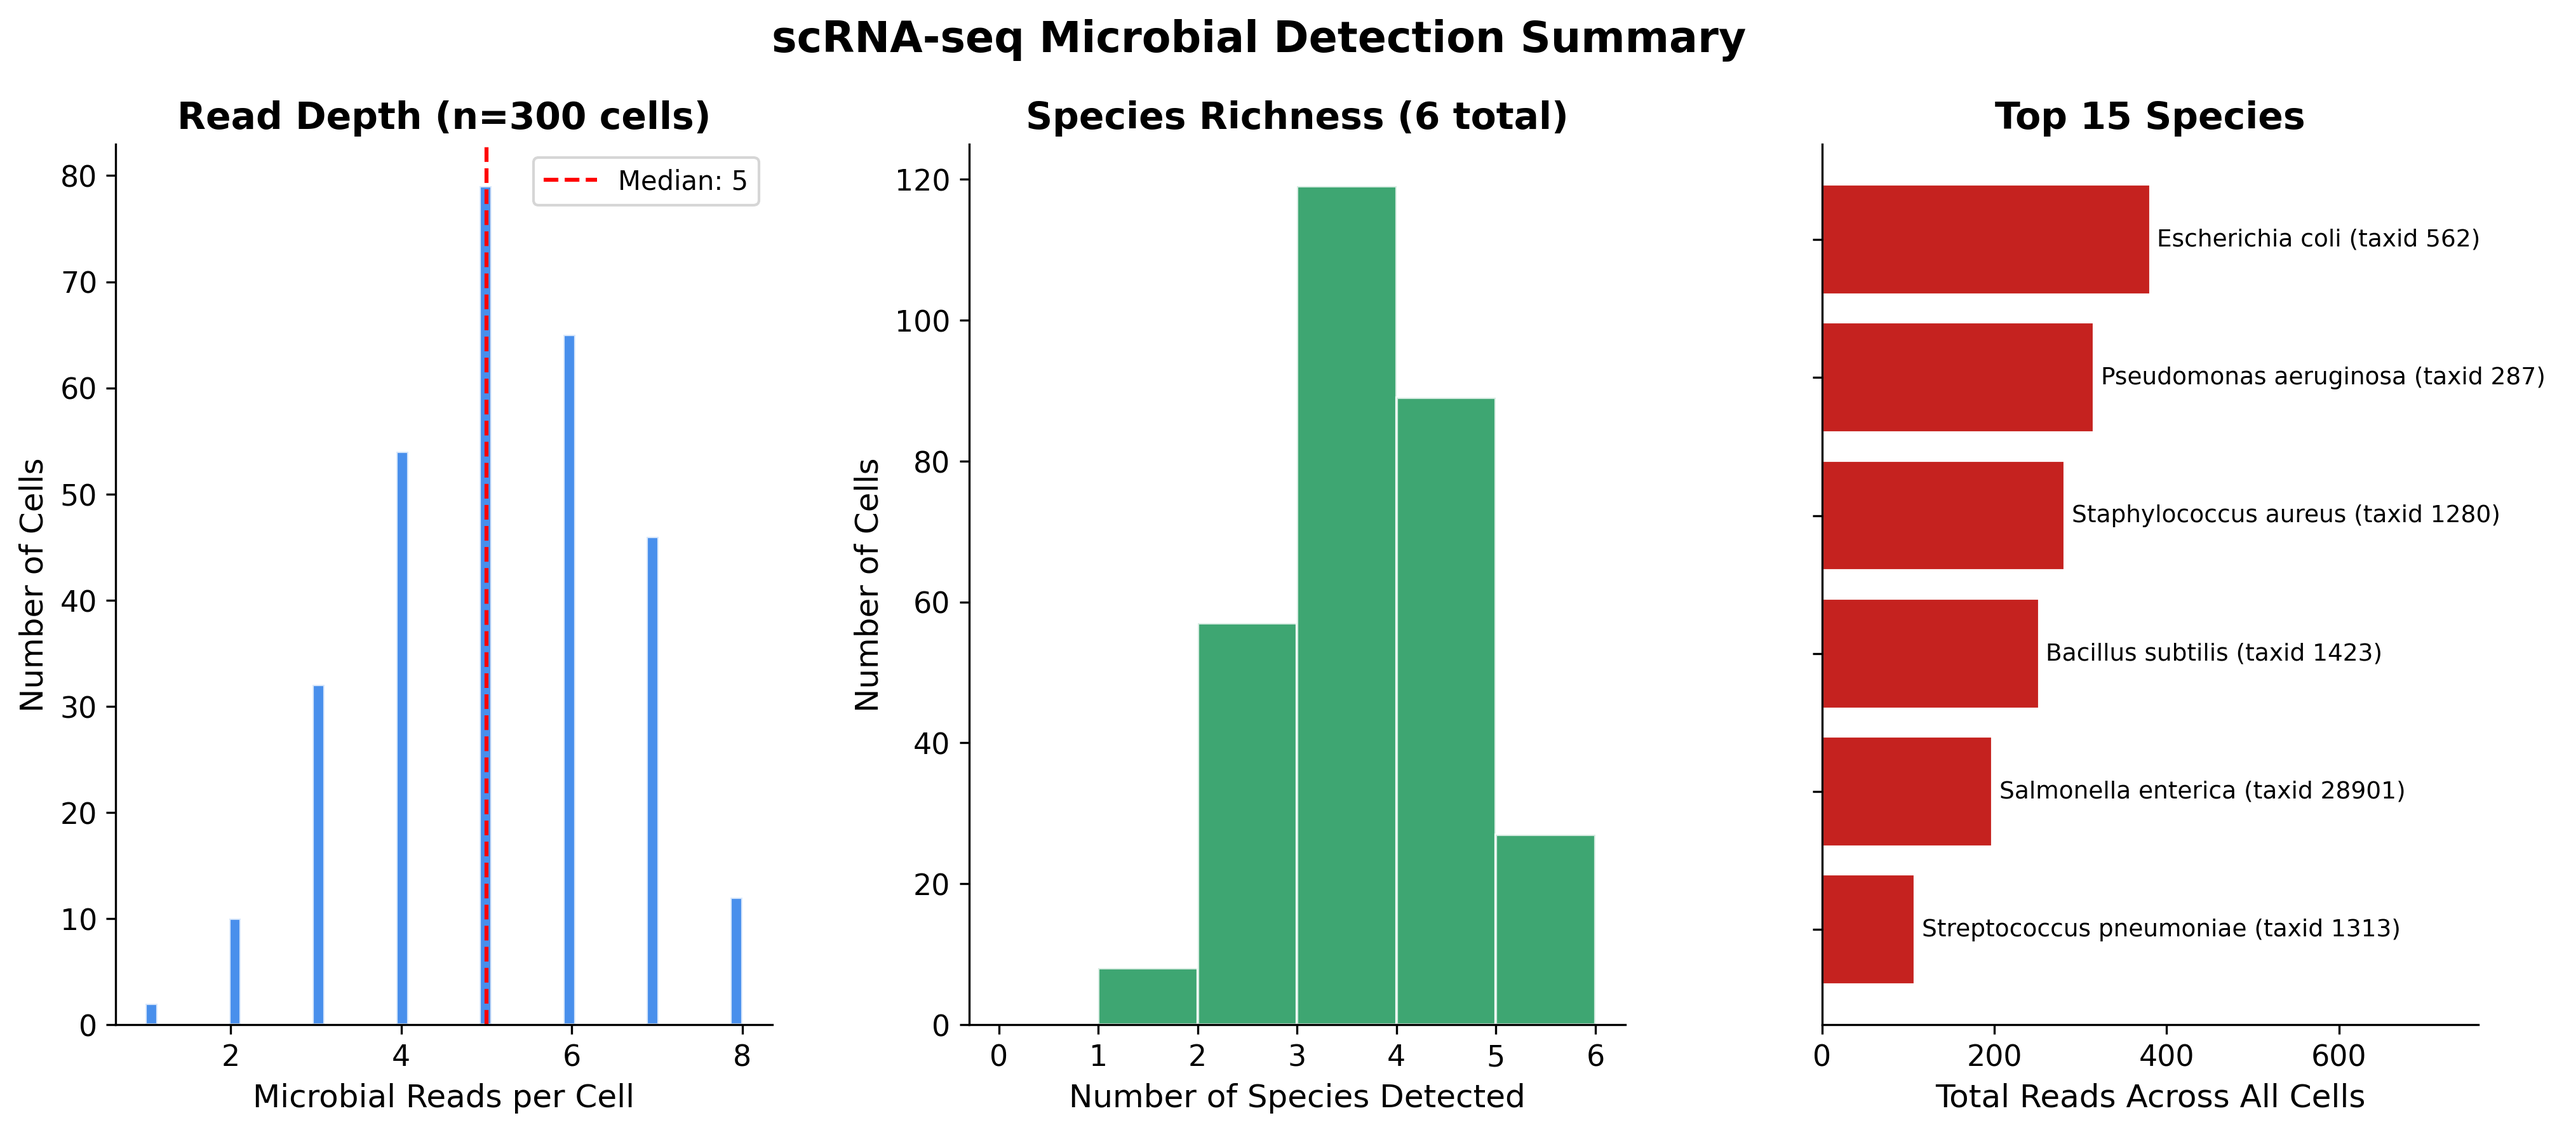
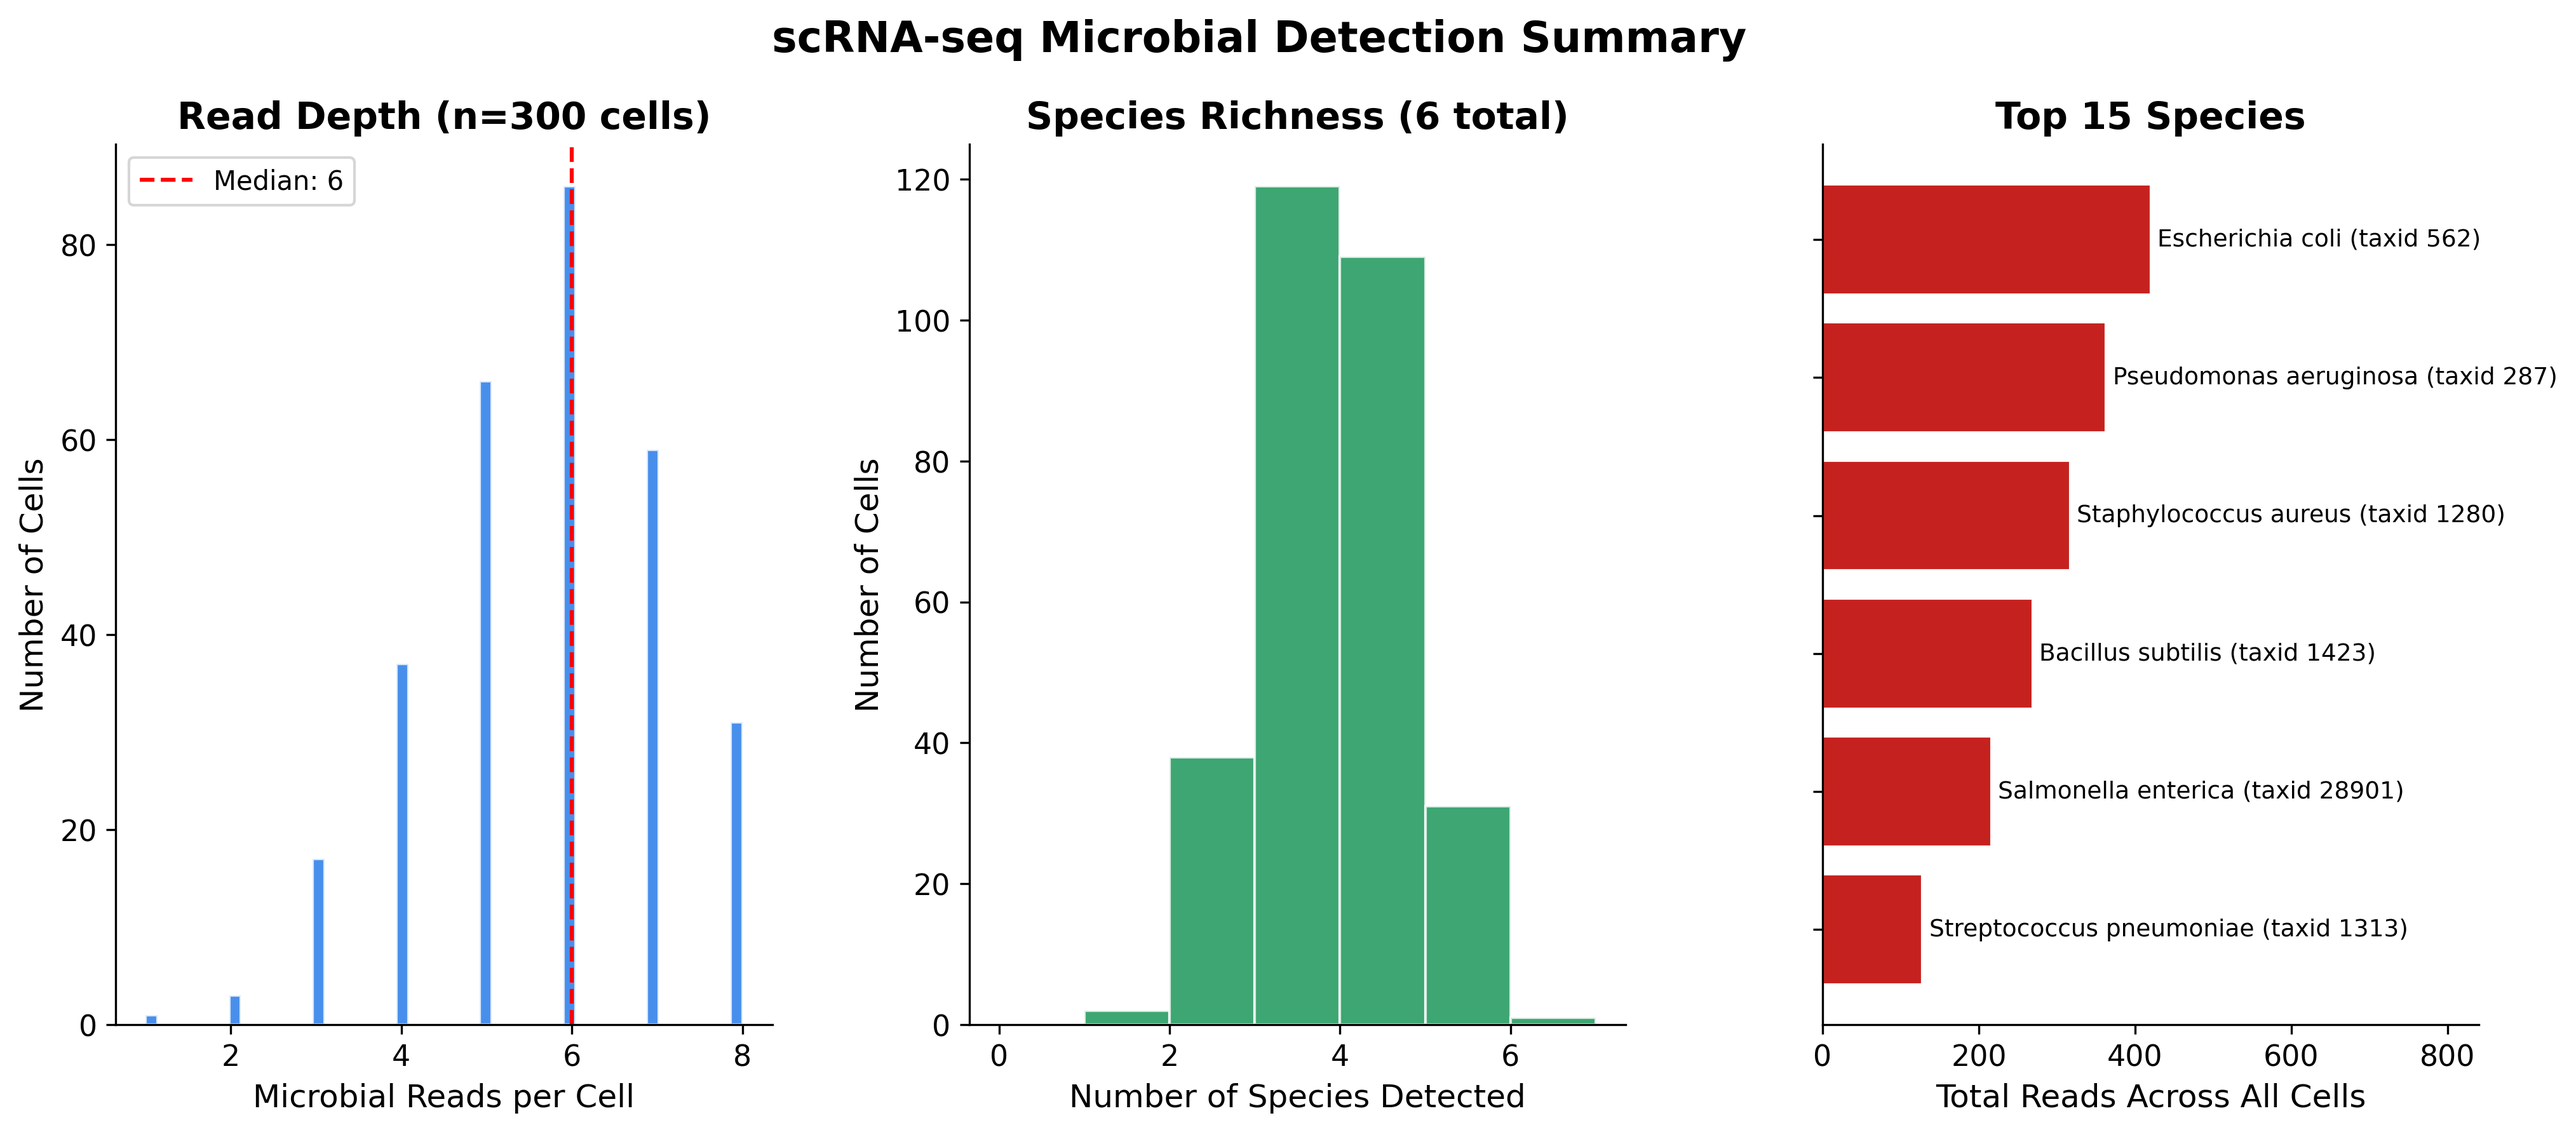
20260402 1100 commit

diff --git a/celljanus/cli.py b/celljanus/cli.py
@@ -408,7 +408,7 @@ def visualize_cmd(bracken_file, output_dir, top_n, fmt):
 )
 @click.option(
     "--confidence",
-    default=0.60,
+    default=0.50,
     show_default=True,
     type=click.FloatRange(0.0, 1.0),
     help="Kraken2 confidence threshold for scRNA-seq (recommended: 0.5-0.7).",

diff --git a/celljanus/scrnaseq.py b/celljanus/scrnaseq.py
@@ -797,7 +797,7 @@ def run_scrnaseq_classification(
 
     log = get_logger()
     if cfg is None:
-        cfg = CellJanusConfig()
+        cfg = CellJanusConfig(kraken2_confidence=0.50)
     if barcode_cfg is None:
         barcode_cfg = BarcodeConfig()
 

diff --git a/README.md b/README.md
@@ -335,7 +335,7 @@ celljanus scrnaseq \
     --read2 testdata/scrnaseq/scrna_R2.fastq.gz \
     --kraken2-db testdata/refs/kraken2_testdb \
     --output-dir test_results/scrnaseq \
-    --confidence 0.60 \
+    --confidence 0.50 \
     --barcode-mode 10x \
     --min-reads 1
 ```
@@ -358,19 +358,19 @@ celljanus scrnaseq \
 | Input reads | 15,000 |
 | Cells With Microbe (passing --min-reads 1) | 300 |
 | Species detected | 6 |
-| Total microbial reads | 1,537 |
-| Mean reads / cell | 5.1 |
+| Total microbial reads | 1,713 |
+| Mean reads / cell | 5.71 |
 
 | Species | Reads | Cells | Prevalence |
 |---------|------:|------:|-----------:|
-| *Escherichia coli* | 381 | 199 | 66.3% |
-| *Pseudomonas aeruginosa* | 316 | 203 | 67.7% |
-| *Staphylococcus aureus* | 282 | 185 | 61.7% |
-| *Bacillus subtilis* | 252 | 168 | 56.0% |
-| *Salmonella enterica* | 198 | 125 | 41.7% |
-| *Streptococcus pneumoniae* | 108 | 90 | 30.0% |
+| *Escherichia coli* | 420 | 211 | 70.3% |
+| *Pseudomonas aeruginosa* | 363 | 217 | 72.3% |
+| *Staphylococcus aureus* | 317 | 196 | 65.3% |
+| *Bacillus subtilis* | 269 | 177 | 59.0% |
+| *Salmonella enterica* | 216 | 132 | 44.0% |
+| *Streptococcus pneumoniae* | 128 | 99 | 33.0% |
 
-> *Note: As of v0.2.5, scRNA-seq uses a stricter default `--confidence 0.60` to reduce false-positive taxa. In WSL2 quick tests (`kraken2_testdb`), confidence `0.5` and `0.6` retained all 300 cells, while `0.7` began dropping cells (299). `0.6` provided the best strictness-retention balance.*
+> *Note: The scRNA-seq default is `--confidence 0.50`.*
 
 <br />
 
@@ -415,7 +415,7 @@ celljanus scrnaseq \
     --read2 sample_R2.fastq.gz \
     --kraken2-db ./refs/standard_8 \
     --output-dir scrna_results \
-    --confidence 0.60 \
+    --confidence 0.50 \
     --barcode-mode 10x \
     --min-reads 1 \
     --threads 8
@@ -426,7 +426,7 @@ celljanus scrnaseq \
     --read2 sample_R2.fastq.gz \
     --kraken2-db ./refs/standard_8 \
     --output-dir scrna_results \
-    --confidence 0.60 \
+    --confidence 0.50 \
     --barcode-mode 10x \
     --whitelist 3M-february-2018.txt.gz \
     --min-reads 1 \
@@ -453,7 +453,7 @@ celljanus scrnaseq \
     --read2 ~/celljanus_work/input/sample_R2.fastq.gz \
     --kraken2-db ~/celljanus_work/db/standard_8 \
     --output-dir ~/celljanus_work/output/scrna_results \
-    --confidence 0.60 \
+    --confidence 0.50 \
     --barcode-mode 10x --min-reads 1 --threads 8
 
 # Copy results back to Windows when done
@@ -475,7 +475,7 @@ celljanus scrnaseq \
     --read1 parse_R1.fastq.gz --read2 parse_R2.fastq.gz \
     --kraken2-db ./refs/standard_8 \
     --output-dir scrna_parse_results \
-    --confidence 0.60 \
+    --confidence 0.50 \
     --barcode-mode parse \
     --min-reads 1 \
     --threads 8
@@ -485,7 +485,7 @@ celljanus scrnaseq \
     --read1 sample_R1.fastq.gz --read2 sample_R2.fastq.gz \
     --kraken2-db ./refs/standard_8 \
     --output-dir scrna_auto_results \
-    --confidence 0.60 \
+    --confidence 0.50 \
     --barcode-mode auto \
     --min-reads 1 \
     --threads 8
@@ -631,7 +631,7 @@ Run `celljanus <command> --help` for full option details.
 | `-t, --threads` | auto | Worker threads |
 | `--min-quality` | 15 | Phred quality threshold (bulk QC) |
 | `--confidence` (bulk) | 0.05 | Kraken2 confidence threshold for bulk mode |
-| `--confidence` (scRNA-seq) | 0.60 | Kraken2 confidence threshold for scRNA-seq mode (recommended range: 0.5–0.7) |
+| `--confidence` (scRNA-seq) | 0.50 | Kraken2 confidence threshold for scRNA-seq mode (recommended range: 0.5–0.7) |
 | `--bracken-level` | S | Taxonomic level (D/P/C/O/F/G/S) |
 | `--barcode-mode` | 10x | Barcode format: 10x / parse / auto (scRNA-seq) |
 | `-w, --whitelist` | — | Cell barcode whitelist (scRNA-seq) |
@@ -675,6 +675,7 @@ from celljanus.scrnaseq import BarcodeConfig, run_scrnaseq_classification
 cfg = CellJanusConfig(
     output_dir=Path("./scrna_results"),
     kraken2_db=Path("./refs/standard_8"),
+    kraken2_confidence=0.50,
     threads=8,
 )
 barcode_cfg = BarcodeConfig(

diff --git a/CHANGELOG.md b/CHANGELOG.md
@@ -9,6 +9,15 @@ and this project adheres to [Semantic Versioning](https://semver.org/spec/v2.0.0
 
 ---
 
+## [Unreleased]
+
+### Summary
+
+- **scRNA-seq default confidence updated**: changed from `0.60` to `0.50`.
+- **README single-cell results synchronized**: updated quick-test metrics/tables to match new scRNA-seq default confidence.
+
+---
+
 ## [0.2.5] — 2026-03-29
 
 ### Summary
